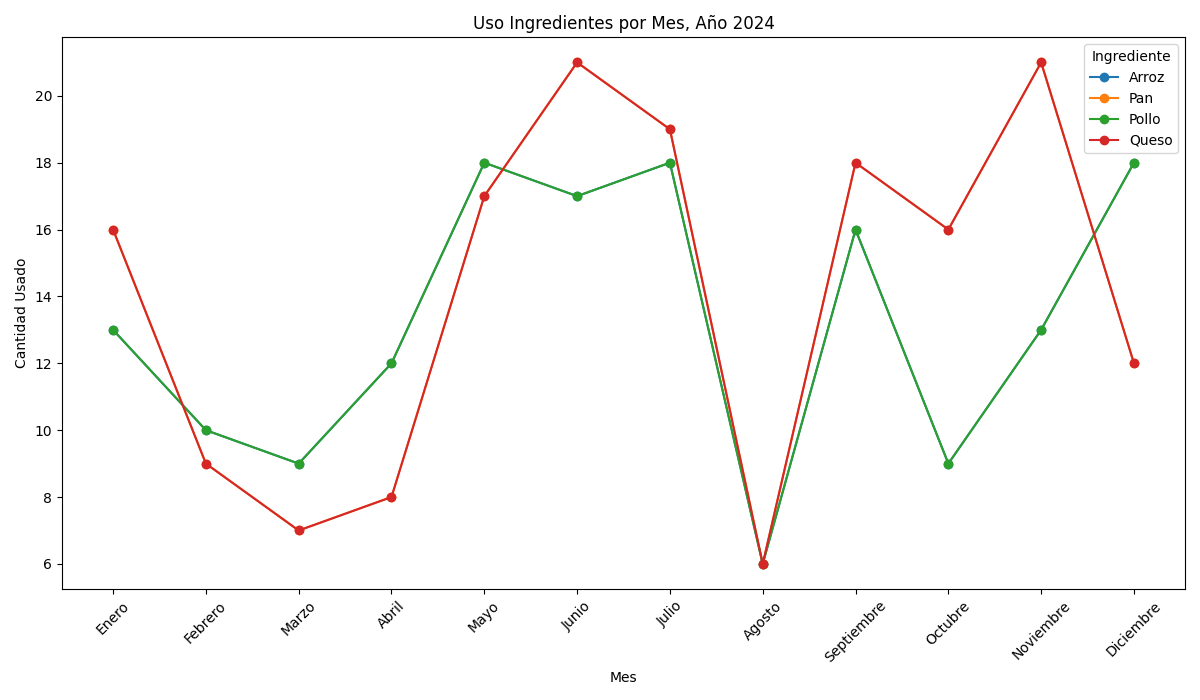
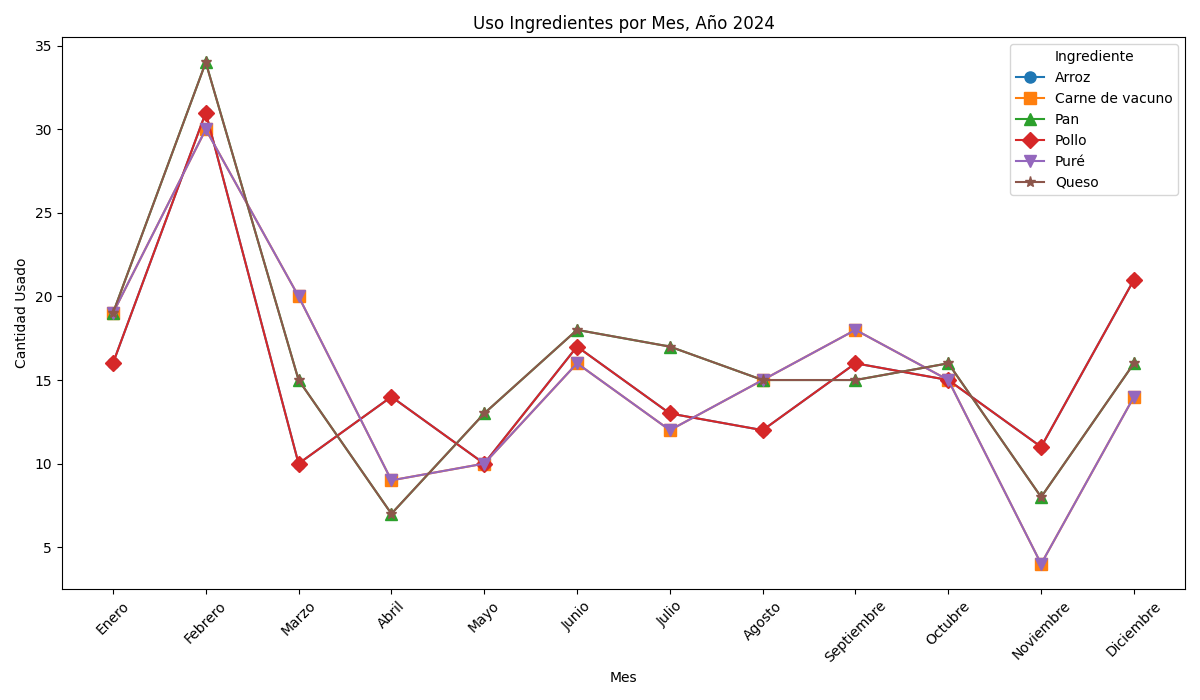
iconos graficos

diff --git a/generador_gráficos/funciones_graficos.py b/generador_gráficos/funciones_graficos.py
@@ -135,11 +135,21 @@ def graficar_ventas_consumibles(año:int) -> None:
         meses_orden = [clasificar_mes(i) for i in range(1, 13)]
         df_pivot = df_pivot.reindex(meses_orden).fillna(0)
 
-        # Graficar
+        # Definir marcadores para cada ingrediente
+        marcadores = ['o', 's', '^', 'D', 'v', '*', 'P', 'X', 'h', '+', 'x', '1', '2', '3', '4', '|', '_']
+        consumibles = list(df_pivot.columns)
+
         # Graficar
         plt.figure(figsize=(12, 7))
-        for consumible in df_pivot.columns:
-            plt.plot(df_pivot.index, df_pivot[consumible], marker='o', label=consumible)
+        for idx, consumible in enumerate(consumibles):
+            marcador = marcadores[idx % len(marcadores)]
+            plt.plot(
+                df_pivot.index, 
+                df_pivot[consumible],
+                marker=marcador,
+                markersize=8, 
+                label=consumible
+            )
         plt.title(f'Análisis Ventas Consumibles, Año {año}')
         plt.xlabel('Mes')
         plt.ylabel('Cantidad Vendida')
@@ -303,10 +313,19 @@ def graficar_uso_ingredientes(año:int) -> None:
         meses_orden = [clasificar_mes(i) for i in range(1, 13)]
         df_pivot = df_pivot.reindex(meses_orden).fillna(0)
 
+        # Definir marcadores para cada ingrediente
+        marcadores = ['o', 's', '^', 'D', 'v', '*', 'P', 'X', 'h', '+', 'x', '1', '2', '3', '4', '|', '_']
+        ingredientes = list(df_pivot.columns)
+
         # Graficar
         plt.figure(figsize=(12, 7))
-        for consumible in df_pivot.columns:
-            plt.plot(df_pivot.index, df_pivot[consumible], marker='o', label=consumible)
+        for idx, ingrediente in enumerate(ingredientes):
+            marcador = marcadores[idx % len(marcadores)]
+            plt.plot(df_pivot.index,
+                    df_pivot[ingrediente], 
+                    marker=marcador,
+                    markersize=8, 
+                    label=ingrediente)
         plt.title(f'Uso Ingredientes por Mes, Año {año}')
         plt.xlabel('Mes')
         plt.ylabel('Cantidad Usado')
@@ -326,6 +345,10 @@ def main():
     graficar_numero_ventas_por_mes(año)
     graficar_total_ventas_por_mes(año)
     graficar_ventas_consumibles(año)
+    graficar_uso_ingredientes(año)
+    graficar_ventas_consumibles(año)
+    ventas_mesero_por_año(año)
+
 
     print("> Gráficos generados con éxito")
 
